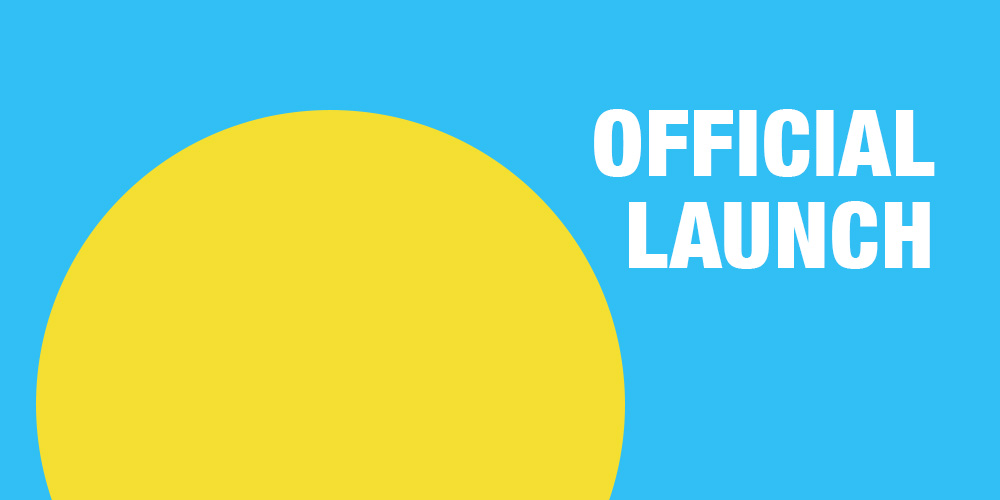
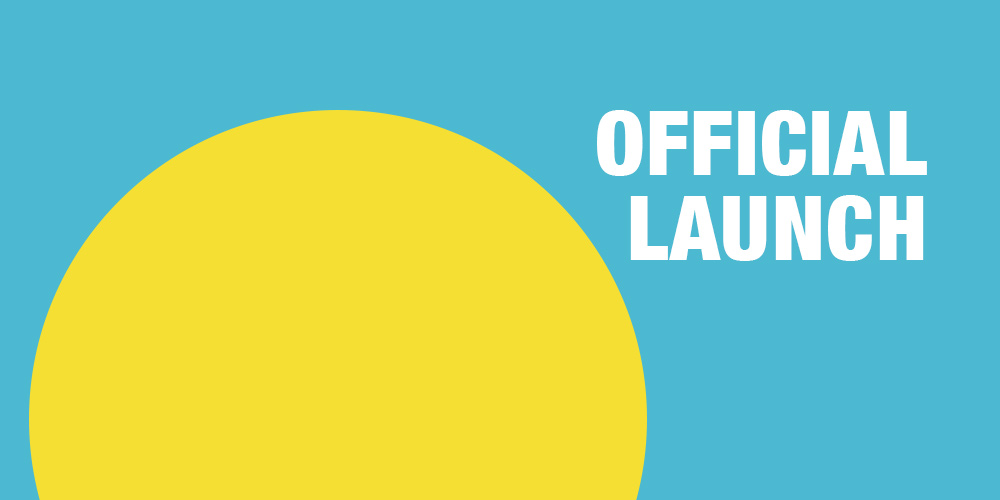
sept 11 - 2

diff --git a/los-angeles.html b/los-angeles.html
@@ -17,14 +17,18 @@
 	<!-- CSS Files -->
     <link href="assets/css/bootstrap.min.css" rel="stylesheet" />
     <link href="assets/css/material-kit.css?v=1.1.0" rel="stylesheet"/>
-</head>
+
+		<!-- CSS Just for demo purpose, don't include it in your project -->
+		<link href="assets/assets-for-demo/vertical-nav.css" rel="stylesheet" />
+		<link href="assets/assets-for-demo/demo.css" rel="stylesheet" />
+	</head>
 
 <body class="landing-page">
     <nav class="navbar navbar-default navbar-transparent navbar-fixed-top navbar-color-on-scroll" color-on-scroll=" " id="sectionsNav">
     	<div class="container">
         	<!-- Brand and toggle get grouped for better mobile display -->
         	<div class="navbar-header">
-        		<button type="button" class="navbar-toggle" data-toggle="collapse" data-target="#navigation-example">
+        		<button type="button" class="navbar-toggle" data-toggle="collapse">
             		<span class="sr-only">Toggle navigation</span>
 		            <span class="icon-bar"></span>
 		            <span class="icon-bar"></span>
@@ -70,7 +74,7 @@
 	    	<div class="section text-center">
                 <div class="row">
                     <div class="col-md-8 col-md-offset-2">
-                        <h2 class="title">- Winter in L.A. -</h2>
+                        <h2 class="title">#oneweekLA</h2>
                         <h5 class="description">Los Angeles both confirms and dismantles all of its stereotypes. Sure, it's a sprawling metropolis with eternally congested freeways, but it also contains one of the most diverse and unique sets of neighborhoods in the United States.</h5>
                     </div>
                 </div>
@@ -189,6 +193,13 @@
 
 									</div>
 								</div>
+							</div>
+
+						</div>
+					</div>
+					</div>
+					<br>
+					<br>
 
 								<div class="row">
 										<div class="col-md-8 col-md-offset-2">
@@ -463,11 +474,14 @@
 
 						<!--     *********    END BLOGS 2      *********      -->
 
+						<div class="main main-raised">
+							<div class="container">
+
 						<div class="team-5"
 							<div class="container">
 								<div class="row">
 									<div class="col-md-8 col-md-offset-2 text-center">
-										<h2 class="title">Curators of this trip</h2>
+										<h2 class="title">#oneweekLA curators</h2>
 										<h5 class="description">For every trip oneweek offers, we partner with real locals. Passionate people, eager to make you discover their city, its different neighbourhoods and vibrant culture.</h5>
 									</div>
 								</div>
@@ -478,7 +492,7 @@
 								<div class="col-md-5">
 									<div class="card-image">
 										<a href="#pablo">
-											<img class="img" src="../assets/img/faces/card-profile1-square.jpg" />
+											<img class="img" src="assets/img/profile.jpg" />
 										</a>
 									</div>
 								</div>
@@ -488,13 +502,13 @@
 										<h6 class="category text-muted">Founder, Stubhub</h6>
 
 										<p class="card-description">
-											Don't be scared of the truth because we need to restart the human foundation in truth...
+											Don't be scared of the truth because we need to restart the human foundation..
 										</p>
 
 										<div class="footer">
-											<a href="#pablo" class="btn btn-just-icon btn-simple btn-twitter"><i class="fa fa-instagram"></i></a>
-											<a href="#pablo" class="btn btn-just-icon btn-simple btn-facebook"><i class="fa fa-facebook-square"></i></a>
-											<a href="#pablo" class="btn btn-just-icon btn-simple btn-google"><i class="fa fa-snapchat-square"></i></a>
+											<a href="#pablo" class="btn btn-just-icon btn-twitter"><i class="fa fa-instagram"></i></a>
+											<a href="#pablo" class="btn btn-just-icon btn-facebook"><i class="fa fa-facebook-square"></i></a>
+											<a href="#pablo" class="btn btn-just-icon btn-dribbble"><i class="fa fa-snapchat-square"></i></a>
 										</div>
 									</div>
 								</div>
@@ -506,7 +520,7 @@
 								<div class="col-md-5">
 									<div class="card-image">
 										<a href="#pablo">
-											<img class="img" src="../assets/img/faces/card-profile6-square.jpg" />
+											<img class="img" src="assets/img/profile2.jpg" />
 										</a>
 									</div>
 								</div>
@@ -516,13 +530,13 @@
 										<h6 class="category text-muted">Graphic Designer, Eater</h6>
 
 										<p class="card-description">
-											Don't be scared of the truth because we need to restart the human foundation in truth...
+											Don't be scared of the truth because we need to restart the human foundation..
 										</p>
 
 										<div class="footer">
-											<a href="#pablo" class="btn btn-just-icon btn-simple btn-linkedin"><i class="fa fa-instagram"></i></a>
-											<a href="#pablo" class="btn btn-just-icon btn-simple btn-facebook"><i class="fa fa-facebook-square"></i></a>
-											<a href="#pablo" class="btn btn-just-icon btn-simple btn-dribbble"><i class="fa fa-snapchat-square"></i></a>
+											<a href="#pablo" class="btn btn-just-icon btn-twitter"><i class="fa fa-instagram"></i></a>
+											<a href="#pablo" class="btn btn-just-icon btn-facebook"><i class="fa fa-facebook-square"></i></a>
+											<a href="#pablo" class="btn btn-just-icon btn-dribbble"><i class="fa fa-snapchat-square"></i></a>
 										</div>
 									</div>
 								</div>
@@ -562,17 +576,17 @@
 				</nav>
 				<ul class="social-buttons pull-right">
 					<li>
-						<a href="https://www.instagram.com/oneweektravel" target="_blank" class="btn btn-just-icon btn-warning">
+						<a href="https://www.instagram.com/oneweektravel" target="_blank" class="btn btn-just-icon btn-default">
 							<i class="fa fa-instagram"></i>
 						</a>
 					</li>
 					<li>
-						<a href="https://www.facebook.com/oneweektravel" target="_blank" class="btn btn-just-icon btn-warning">
+						<a href="https://www.facebook.com/oneweektravel" target="_blank" class="btn btn-just-icon btn-default">
 							<i class="fa fa-facebook-square"></i>
 						</a>
 					</li>
 					<li>
-						<a href="mailto:info@oneweekclub.com" target="_blank" class="btn btn-just-icon btn-warning">
+						<a href="mailto:info@oneweekclub.com" target="_blank" class="btn btn-just-icon btn-default">
 							<i class="fa fa-envelope"></i>
 						</a>
 					</li>

diff --git a/assets/css/material-kit.css b/assets/css/material-kit.css
@@ -5808,16 +5808,16 @@ select[data-dropdownjs][disabled] + .dropdownjs > input[readonly] {
   content: "";
 }
 .header-filter::before {
-  background-color: rgba(0, 0, 0, 0.5);
+  background-color: rgba(0, 0, 0, 0.15);
 }
 .header-filter .container {
   z-index: 2;
   position: relative;
 }
-.header-filter[filter-color="purple"]:after, .header-filter[filter-color="primary"]:after {
+.header-filter[filter-color="black"]:after, .header-filter[filter-color="primary"]:after {
   background: rgba(0, 0, 0, 0.5);
   /* For browsers that do not support gradients */
-  background: -webkit-linear-gradient(60deg, rgba(225, 190, 231, 0.56), rgba(186, 104, 200, 0.95));
+  background: -webkit-linear-gradient(60deg, rgba(0, 0, 0, 0.56), rgba(0, 0, 0, 0.95));
   /* For Safari 5.1 to 6.0 */
   background: -o-linear-gradient(60deg, rgba(225, 190, 231, 0.56), rgba(186, 104, 200, 0.95));
   /* For Opera 11.1 to 12.0 */
@@ -7466,10 +7466,10 @@ select.selectpicker {
 }
 .presentation-page .header-filter:after,
 .index-page .header-filter:after {
-  background: rgba(132, 13, 121, 0.88);
-  background: linear-gradient(45deg, rgba(132, 13, 121, 0.88) 0%, rgba(208, 44, 180, 0.31) 100%);
-  background: -moz-linear-gradient(135deg, rgba(132, 13, 121, 0.88) 0%, rgba(208, 44, 180, 0.31) 100%);
-  background: -webkit-linear-gradient(135deg, rgba(132, 13, 121, 0.88) 0%, rgba(208, 44, 180, 0.31) 100%);
+  background: rgba(0, 0, 0, 0.5);
+  background: linear-gradient(45deg, rgba(0, 0, 0, 0.1) 0%, rgba(0, 0, 0, 0.1) 100%);
+  background: -moz-linear-gradient(135deg, rgba(0, 0, 0, 0.1) 0%, rgba(0, 0, 0, 0.1) 100%);
+  background: -webkit-linear-gradient(135deg, rgba(0, 0, 0, 0.1) 0%, rgba(0, 0, 0, 0.1) 100%);
 }
 .presentation-page h4.description,
 .index-page h4.description {

diff --git a/index.html b/index.html
@@ -34,7 +34,7 @@
 		            <span class="icon-bar"></span>
 		            <span class="icon-bar"></span>
         		</button>
-        		<a class="navbar-brand" href="">
+        		<a class="navbar-brand" href="index.html">
 							<img class="img" src="img/oneweek.png" />
 						</a>
         	</div>
@@ -56,7 +56,7 @@
 
 
 
-		<div class="page-header header-filter2" data-parallax="true" style="background-image: url('assets/img/examples/acceuil.jpg');">
+		<div class="page-header header-filter" data-parallax="true" style="background-image: url('assets/img/examples/acceuil.jpg');">
 				<div class="container">
 						<div class="row">
 				<div class="col-md-6">
@@ -198,7 +198,7 @@
 										<div class="row">
 											<div class="col-md-7">
 												<h6 class="category text-info">
-													<i class="material-icons">beach_access</i> Use case only
+													<i class="material-icons">beach_access</i> #oneweekLA
 												</h6>
 												<h3 class="card-title">
 													<a href="#pablo">Los Angeles in January</a>
